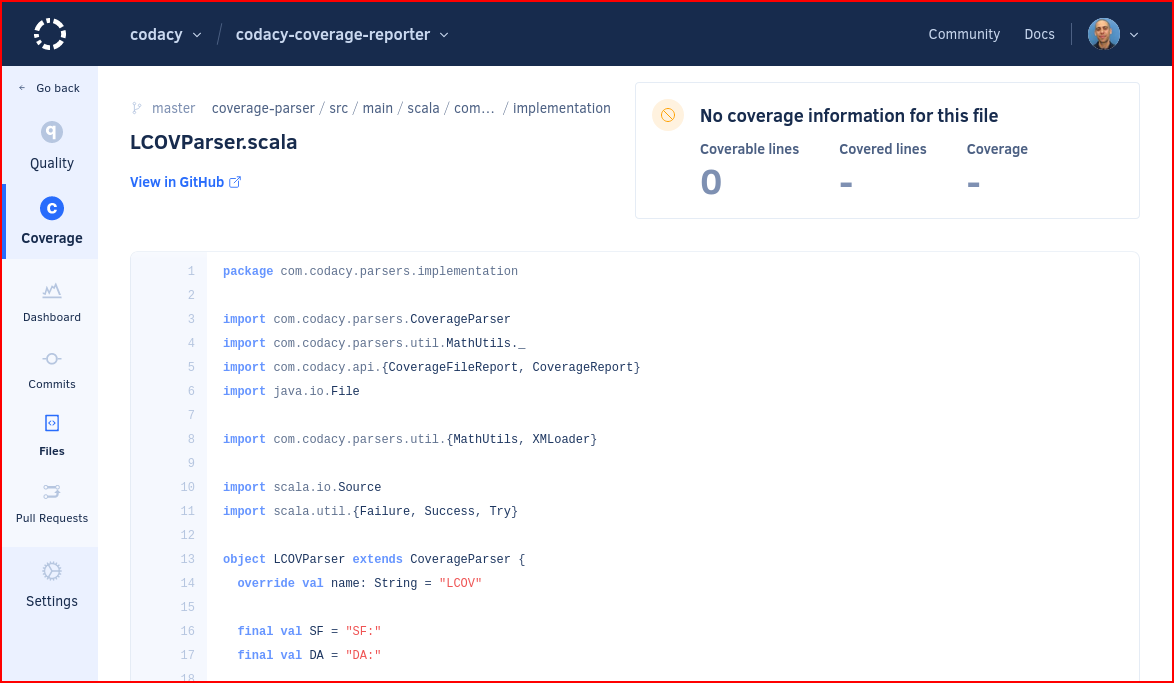
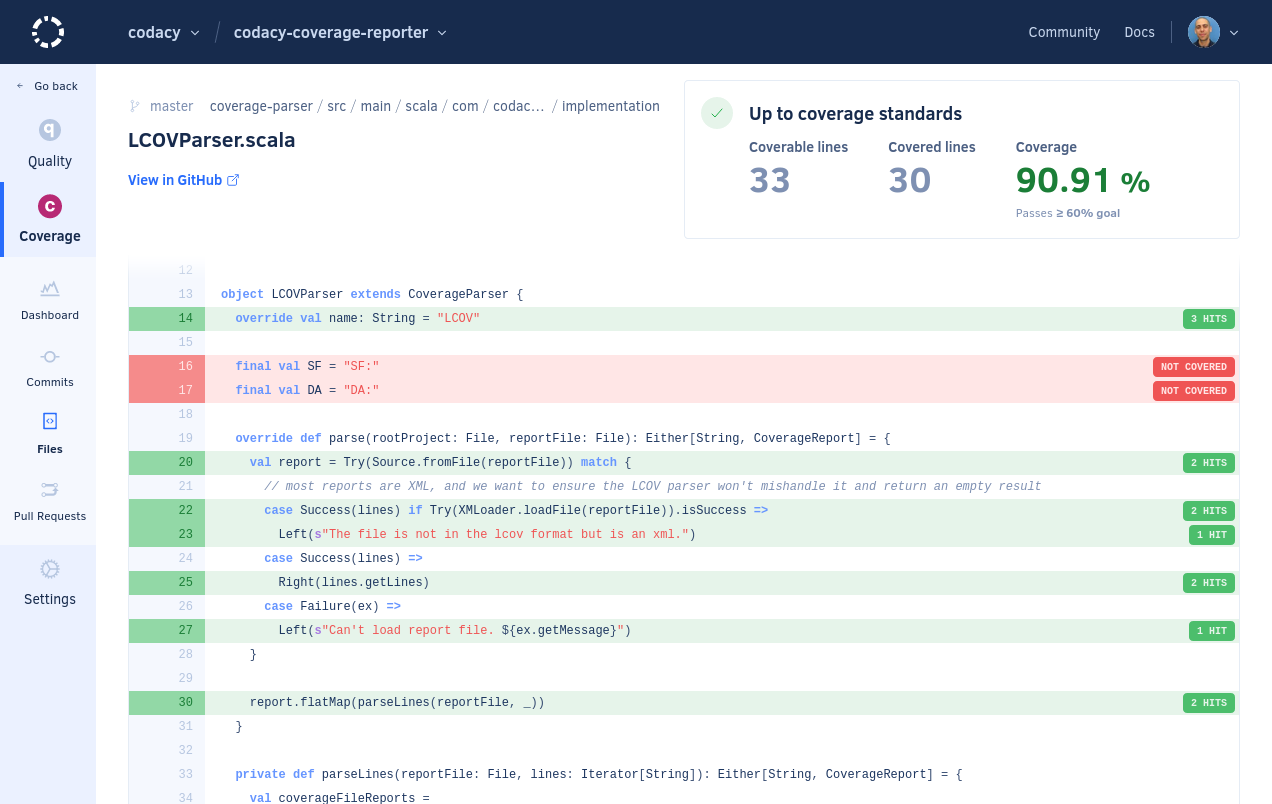
feat: Update screenshots for the Files page

diff --git a/docs/repositories-coverage/files.md b/docs/repositories-coverage/files.md
@@ -14,11 +14,11 @@ Codacy displays the files in alphabetical order by default, but you can sort the
 !!! note
     [You can use the Codacy API](../codacy-api/examples/obtaining-code-quality-metrics-for-files.md) to generate reports or obtain coverage metrics for the files in your repositories in a more flexible way.
 
-![Files list](images/files.png)<!--TODO Review-->
+![Files list](images/files.png)
 
 Use the search box to filter the list and find specific files:
 
-![Finding specific files](images/files-search.png)<!--TODO Review-->
+![Finding specific files](images/files-search.png)
 
 ## File details
 
@@ -30,7 +30,7 @@ Click a specific file to see more detailed coverage information for that file, i
 
 The page also shows the source code of the file and identifies which lines of code are covered by tests (green background) or not (red background).
 
-![File detail](images/files-details.png)<!--TODO Review-->
+![File detail](images/files-details.png)
 
 ## Why are some files missing? {: id="missing-files"}
 
